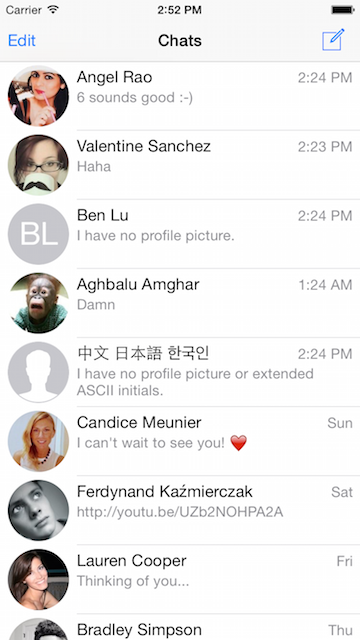
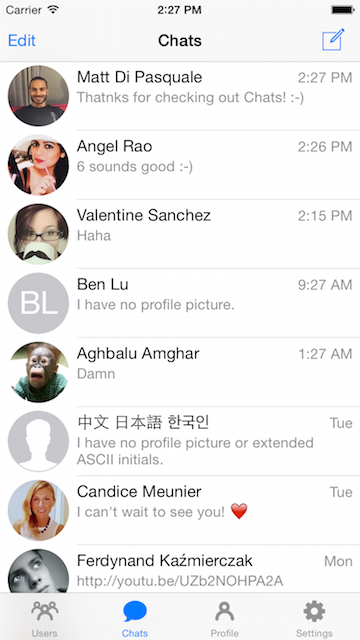
Prepare for release

diff --git a/ChatsTests/ChatsTests.swift b/ChatsTests/ChatsTests.swift
@@ -2,16 +2,10 @@ import XCTest
 
 class ChatsTests: XCTestCase {
     func testExample() {
-        XCTAssertNil(User(ID: 1, username: "mattdipasquale", firstName: nil, lastName: nil).initials, "")
-
         let users = [
-            (User(ID: 3, username: "walterstephanie", firstName: nil, lastName: "Di Pasquale"), "D"),
-            (User(ID: 1, username: "mattdipasquale", firstName: "Matt", lastName: nil), "M"),
-            (User(ID: 3, username: "walterstephanie", firstName: " ", lastName: "Di Pasquale"), " D"),
-            (User(ID: 1, username: "mattdipasquale", firstName: "Matt", lastName: " "), "M "),
             (User(ID: 1, username: "mattdipasquale", firstName: "Matt", lastName: "Di Pasquale"), "MD"),
-            (User(ID: 3, username: "walterstephanie", firstName: "Ë", lastName: "R"), "ËR"),
-            (User(ID: 4, username: "wake_gs", firstName: "Ë", lastName: "中"), "Ë")
+            (User(ID: 2, username: "walterstephanie", firstName: "Ë", lastName: "R"), "ËR"),
+            (User(ID: 3, username: "wake_gs", firstName: "Ë", lastName: "中"), "Ë")
         ]
 
         for (user, initials) in users {

diff --git a/CREDITS.md b/CREDITS.md
@@ -4,9 +4,9 @@
 
 Compliments of Apple
 
-* [`MessageBubble@2x.png`][1] is a derivative of [`bubble@2x.png`][2].
-* [`MessageIncoming.aiff`][3] is a copy of [`SIMToolkitSMS.aiff`][4].
-* [`MessageOutgoing.aiff`][5] is a copy of [`message-sent.aiff`][6].
+* [`MessageBubble@2x.png`][1] is a derivative of Apple's iOS Messages app message bubble.
+* [`MessageIncoming.aiff`][2] is a copy of [`Received Message.aiff `][11].
+* [`MessageOutgoing.aiff`][3] is a copy of [`Sent Message.aiff`][12].
 
 Command to find files: `find /Applications/Xcode.app/ -name *.png`
 
@@ -34,22 +34,25 @@ Command to find files: `find /Applications/Xcode.app/ -name *.png`
 20. http://uifaces.com/cynthiasavard
 21. http://uifaces.com/stushona
 
-Blank Avatar. [User][7] designed by [Lynn Christensen][8] from the [Noun Project][9]
+Blank Avatar. [User][4] designed by [Lynn Christensen][5] from the [Noun Project][6]
 
 ## Tab Bar Icons
 
-1. https://thenounproject.com/term/users/12931/
-2. https://thenounproject.com/term/message/1332/
-3. https://thenounproject.com/term/profile/12930/
-4. https://thenounproject.com/term/settings/89645/
+1. [Users][7]
+2. [Chats][8]
+3. [Profile][9]
+4. [Settings][10]
 
 
-[1]: https://github.com/acani/Chats/raw/master/Chats/Chats/Images.xcassets/MessageBubble.imageset/MessageBubble@2x.png
-[2]: file:///Applications/Xcode.app/Contents/Developer/Platforms/iPhoneSimulator.platform/Developer/SDKs/iPhoneSimulator7.1.sdk/System/Library/PrivateFrameworks/ChatKit.framework/bubble@2x.png
-[3]: https://github.com/acani/Chats/raw/master/Chats/Chats/Resources/MessageIncoming.aiff
-[4]: file:///Applications/Xcode.app//Contents/Developer/Platforms/iPhoneSimulator.platform/Developer/SDKs/iPhoneSimulator7.1.sdk/System/Library/CoreServices/SpringBoard.app/SIMToolkitSMS.aiff
-[5]: https://github.com/acani/Chats/raw/master/Chats/Chats/Resources/MessageOutgoing.aiff
-[6]: https://github.com/oovoodev/iOS-SDK-Sample/blob/master/ooVooSample/JSMessagesViewController/Resources/Sounds/message-sent.aiff
-[7]: http://www.thenounproject.com/term/user/4520/
-[8]: http://www.thenounproject.com/lynnthemac
-[9]: http://www.thenounproject.com
+[1]: https://github.com/acani/Chats/blob/master/Chats/Images.xcassets/MessageBubble.imageset/MessageBubble@2x.png
+[2]: https://github.com/acani/Chats/blob/master/Chats/MessageIncoming.aiff
+[3]: https://github.com/acani/Chats/blob/master/Chats/MessageOutgoing.aiff
+[4]: http://www.thenounproject.com/term/user/4520/
+[5]: http://www.thenounproject.com/lynnthemac
+[6]: http://www.thenounproject.com
+[7]: https://thenounproject.com/term/users/12931/
+[8]: https://thenounproject.com/term/message/1332/
+[9]: https://thenounproject.com/term/profile/12930/
+[10]: https://thenounproject.com/term/settings/89645/
+[11]: file:///Applications/Messages.app/Contents/Resources/Received Message.aiff
+[12]: file:///Applications/Messages.app/Contents/Resources/Sent Message.aiff

diff --git a/README.md b/README.md
@@ -1,28 +1,47 @@
-# Chats-iPhone
+# Chats
 
-An iPhone client for [Chats][1]
+Just the iPhone UI. No back-end servers.
+
+![Welcome][1] ![Users][2]
+
+![Chats][3] ![Chat][4]
+
+![Profile][5] ![Edit Profile][6]
+
+![Settings][7] ![Delete Account][8]
 
 
 ## Apps using Chats
 
-Create an issue if your app uses Chats.
+Did you use Chats to help build your app?
+
+Create an issue or pull request to have your app listed here.
 
 
 ## Related Projects
 
-* [JSQMessagesViewController][10]
-* [UIBubbleTableView][11]
-* [TextSecure for iOS][12]
-* [Chat - Messaging SDK for iOS][13]
+* [JSQMessagesViewController][9]
+* [UIBubbleTableView][10]
+* [Signal for iOS][11]
+* [Chat - Messaging SDK for iOS][12]
+* [Firechat-iOS][13]
 
 
-This project, excluding [works credited][3], is releced under the [Unlicense][3].
+This project, excluding [works credited][14], is released under the [Unlicense][15].
 
 
-[1]: https://github.com/acani/Chats
-[2]: https://github.com/acani/Chats-iPhone/blob/master/CREDITS.md
-[3]: http://unlicense.org
-[10]: https://github.com/jessesquires/JSQMessagesViewController
-[11]: http://alexbarinov.github.io/UIBubbleTableView/
-[12]: https://github.com/WhisperSystems/TextSecure-iOS
-[13]: http://www.binpress.com/app/chat-messaging-sdk-for-ios/1644
+[1]: https://github.com/acani/Chats/raw/master/Screenshots/Welcome.png
+[2]: https://github.com/acani/Chats/raw/master/Screenshots/Users.png
+[3]: https://github.com/acani/Chats/raw/master/Screenshots/Chats.png
+[4]: https://github.com/acani/Chats/raw/master/Screenshots/Chat.png
+[5]: https://github.com/acani/Chats/raw/master/Screenshots/Profile.png
+[6]: https://github.com/acani/Chats/raw/master/Screenshots/EditProfile.png
+[7]: https://github.com/acani/Chats/raw/master/Screenshots/Settings.png
+[8]: https://github.com/acani/Chats/raw/master/Screenshots/DeleteAccount.png
+[9]: https://github.com/jessesquires/JSQMessagesViewController
+[10]: http://alexbarinov.github.io/UIBubbleTableView/
+[11]: https://github.com/WhisperSystems/Signal-iOS
+[12]: http://www.binpress.com/app/chat-messaging-sdk-for-ios/1644
+[13]: https://github.com/firebase/firechat-ios
+[14]: https://github.com/acani/Chats/blob/master/CREDITS.md
+[15]: http://unlicense.org

diff --git a/TODO.md b/TODO.md
@@ -6,8 +6,7 @@
 
 * Is there a better way than lengthOfBytesUsingEncoding to check if string is ASCII?
 * Add search bar
-* Edit, done, sentDateLabel.x #bug
-* Use KVO to set edit button enabled
+* Use KVO to set edit button visible
 
 ## ChatViewController
 
